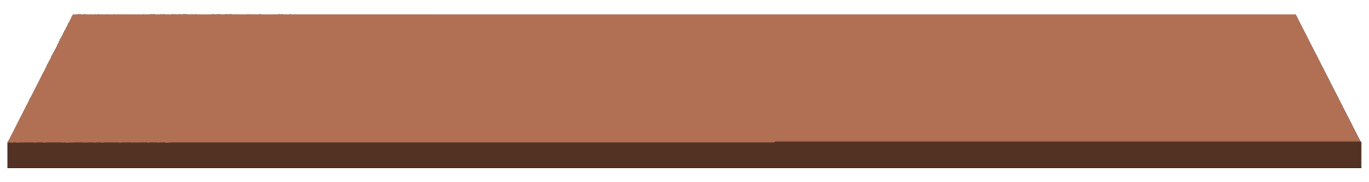
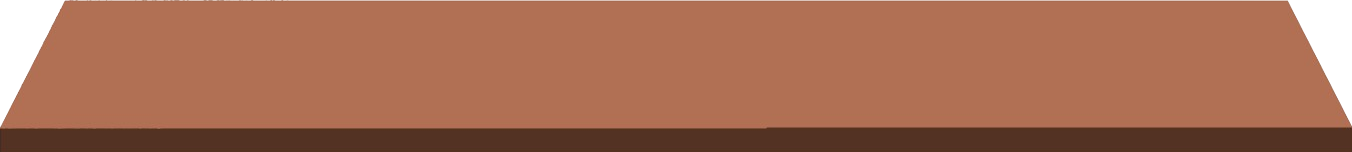
keresés + polcok javítása, képek

Changed region(s): [[0.0, 0.7368, 1.0, 1.0], [0.0, 0.0, 0.9941, 0.7368]]

diff --git a/categories.html b/categories.html
@@ -87,21 +87,21 @@
                                     </div>
                                     <div class="carousel-inner">
                                       <div class="carousel-item active">
-                                        <img src="img/slider0.jpg" class="d-block justify-content-center" alt="...">
+                                        <img src="img/slider-ad-4.png" class="d-block justify-content-center" alt="...">
                                         <div class="carousel-caption d-none d-md-block">
                                           <h5>First slide label</h5>
                                           <p>Some representative placeholder content for the first slide.</p>
                                         </div>
                                       </div>
                                       <div class="carousel-item">
-                                        <img src="img/slider0.jpg" class="d-block justify-content-center" alt="...">
+                                        <img src="img/slider-ad.png" class="d-block justify-content-center" alt="...">
                                         <div class="carousel-caption d-none d-md-block">
                                           <h5>Second slide label</h5>
                                           <p>Some representative placeholder content for the second slide.</p>
                                         </div>
                                       </div>
                                       <div class="carousel-item">
-                                        <img src="img/slider0.jpg" class="d-block" alt="...">
+                                        <img src="img/slider-ad-1.png" class="d-block" alt="...">
                                         <div class="carousel-caption d-none d-md-block">
                                           <h5>Third slide label</h5>
                                           <p>Some representative placeholder content for the third slide.</p>
@@ -180,11 +180,14 @@
                                     </div>     
                               </div> 
                         </div>
-                            <div class="row w-100">
-                                <div class=" col-lg-12 col-md-12 col-sm-11 shelf d-flex text-center justify-content-center w-100 d-sm-none d-md-none ">   
+
+                        <div class="container-fluid d-flex justify-content-center d-lg-block d-md-block d-sm-none d-xs-none">
+                            <div class="row w-100 m-0">
+                                <div class=" col-lg-12 col-md-12 col-sm-12 shelf mb-5 w-100">   
                                     <img src="img/shelf-2.png" alt="" width="100%"> 
                                 </div>  
                             </div> 
+                        </div>
                   </div> 
             </section>
 
@@ -196,15 +199,15 @@
                                   <h4 class="text-center my-4 main-title" id="Youth">Ifjúsági</h4>
                                   <div class="col-lg-3 col-md-6 col-sm-12 d-flex justify-content-center my-3">
                                     <a href="audiobook1.html">
-                                        <div class="card">
-                                                  <img src="img/teen-category.png" alt="Ifjúsági">
-                                                  <div class="card-body text-center">
-                                                        <h5>Szerző neve</h5>
-                                                        <h4>Lorem Ipsum Sit Amet</h4>
-                                                        <p class="card-text">Érdekes történet Vojcsek Tünde előadásában. Lorem ipsum dolor sit. </p>
-                                                  </div>
-                                            </div>
-                                        </a>
+                                    <div class="card">
+                                              <img src="img/teen-category.png" alt="Ifjúsági">
+                                              <div class="card-body text-center">
+                                                    <h5>Szerző neve</h5>
+                                                    <h4>Lorem Ipsum Sit Amet</h4>
+                                                    <p class="card-text">Érdekes történet Vojcsek Tünde előadásában. Lorem ipsum dolor sit. </p>
+                                              </div>
+                                        </div>
+                                    </a>
                                   </div>
                                   <div class="col-lg-3 col-md-6 col-sm-12 d-flex justify-content-center my-3">
                                     <a href="audiobook1.html">
@@ -245,11 +248,13 @@
                                   </div>     
                             </div> 
                       </div>
-                          <div class="row w-100">
-                              <div class=" col-lg-12 col-md-12 col-sm-12 shelf d-flex justify-content-center mb-5 w-100">   
-                                  <img src="img/shelf-2.png" alt="" width="100%"> 
-                              </div>  
-                          </div> 
+                      <div class="container-fluid d-flex justify-content-center d-lg-block d-md-block d-sm-none d-xs-none p-0 m-0">
+                        <div class="row w-100">
+                            <div class=" col-lg-12 col-md-12 col-sm-12 shelf mb-5 w-100 text-center">   
+                                <img src="img/shelf-2.png" alt="" width="100%"> 
+                            </div>  
+                        </div> 
+                    </div>
                 </div> 
             </div> 
           </section>
@@ -363,11 +368,13 @@
                               </div>     
                         </div> 
                   </div>
-                      <div class="row w-100">
-                          <div class=" col-lg-12 col-md-12 col-sm-12 d-flex justify-content-center shelf w-100">   
-                              <img src="img/shelf-2.png" alt="" width="100%"> 
-                          </div>  
-                      </div> 
+                  <div class="container-fluid d-flex justify-content-center d-lg-block d-md-block d-sm-none d-xs-none">
+                    <div class="row w-100">
+                        <div class=" col-lg-12 col-md-12 col-sm-12 shelf mb-5 w-100 text-center">   
+                            <img src="img/shelf-2.png" alt="" width="100%"> 
+                        </div>  
+                    </div> 
+                </div>
                     </div> 
       </section>
 
@@ -426,11 +433,13 @@
                           </div>     
                     </div> 
               </div>
-                  <div class="row w-100">
-                      <div class=" col-lg-12 col-md-12 col-sm-12 shelf d-flex justify-content-center w-100">   
-                          <img src="img/shelf-2.png" alt="" width="100%"> 
-                      </div>  
-                  </div> 
+              <div class="container-fluid d-flex justify-content-center d-lg-block d-md-block d-sm-none d-xs-none">
+                <div class="row w-100">
+                    <div class=" col-lg-12 col-md-12 col-sm-12 shelf mb-5 w-100 text-center">   
+                        <img src="img/shelf-2.png" alt="" width="100%"> 
+                    </div>  
+                </div> 
+            </div>
                 </div> 
   </section>
   <section>
@@ -488,11 +497,13 @@
                       </div>     
                 </div> 
           </div>
-              <div class="row w-100">
-                  <div class=" col-lg-12 col-md-12 col-sm-12 shelf d-flex justify-content-center mb-5 w-100">   
-                      <img src="img/shelf-2.png" alt="" width="100%" > 
-                  </div>  
-              </div> 
+          <div class="container-fluid d-flex justify-content-center d-lg-block d-md-block d-sm-none d-xs-none">
+            <div class="row w-100">
+                <div class=" col-lg-12 col-md-12 col-sm-12 shelf mb-5 w-100 text-center">   
+                    <img src="img/shelf-2.png" alt="" width="100%"> 
+                </div>  
+            </div> 
+        </div>
     </div> 
 </section>
       </main>

diff --git a/css/style.css b/css/style.css
@@ -13,7 +13,9 @@ body{
 }
 
 .categories-more {
-    background-color: #eee2d6ad;
+   z-index: 2;
+   background: rgb(249,246,239);
+   background: linear-gradient(180deg, rgba(249,246,239,1) 1%, rgba(236,224,212,1) 24%, rgba(228, 217, 206, 0.849) 51%, rgba(239,227,215,1) 81%, rgba(249,246,239,1) 100%);
 }
 
 .cartItems td, .cartItems th {
@@ -21,7 +23,7 @@ body{
     border-color: #ebddcf;
 }
 
-a.nav-link, .nav-icons a, body,.btn-light, .addToCart, .cartItems td, .cartItems th,.Top-Audio td,.Top-Audio th{
+a.nav-link, .nav-icons a, body,.btn-light, .addToCart, .cartItems td, .cartItems th,.Top-Audio td,.Top-Audio th,#searchResults li a,#mobileSearchResults li a{
     color:  #91553c !important;
 }
 
@@ -32,7 +34,25 @@ header, .choose-us h4{
 header .navbar , .choose-us h4, .comment {
     border-bottom: 1px solid #a57a568f;
 }
+#mobileSearchResults{
+    list-style-type: none;
+    padding: 0;
+     margin: 0;
+     position: absolute;
+}
 
+#searchResults{
+    list-style-type: none;
+    padding: 0;
+     margin: 0;
+     position:absolute;
+    width: 22%;
+    }
+
+#searchResults li a, #mobileSearchResults li a {
+    padding: 10px;
+    display: block;
+  }
 
 .publisher-imgs div {
     border-left: 1px solid #a57a568f;
@@ -44,7 +64,6 @@ header .navbar , .choose-us h4, .comment {
 }
 
 .nav-link{
-    text-decoration: none;
     font-weight: 500;
     font-style: normal;
     letter-spacing: 1px;
@@ -65,7 +84,7 @@ header .navbar , .choose-us h4, .comment {
 .categories h3{
     margin: 50px;
 }
-.navbar-toggler,.addToCart {
+.navbar-toggler,.addToCart,#searchResults li a,#mobileSearchResults li a {
     background-color: #fff;}
 
 .addToCart {
@@ -166,9 +185,12 @@ color: #ffffff!important;
     border: none !important
 }
 
-  .form-control, .card, .navbar-toggler{
+  .form-control, .card, .navbar-toggler,#searchResults li a,#mobileSearchResults li a{
     border: 1px solid #aa634485;
     
+  }
+  .card{
+    z-index: 3 !important;
   }
 
 .choose-us h3{
@@ -212,6 +234,7 @@ footer {
 
 .cards img, .card-body h5 {
     color: #91553c!important;
+
 }
 
 .cards img:hover {
@@ -267,12 +290,13 @@ form button, span.carousel-control-prev-icon, span.carousel-control-next-icon {
     width: 100%;
     object-fit: cover;
     object-position: center;
-    opacity: 0.6;
+    opacity: 0.4;
 }
 
 .carousel-caption{
-    color: #533223;
+    color: #9b3c14;
     font-size: 30px;
+    -webkit-text-stroke: 1px #000000;
 }
 .categories-more .card{
     width: 15rem;
@@ -284,12 +308,25 @@ form button, span.carousel-control-prev-icon, span.carousel-control-next-icon {
 span.carousel-control-prev-icon, span.carousel-control-next-icon{
     border-radius: 10px;
 }
-a{
+a, .nav-link, #searchResults li a,#mobileSearchResults li a{
     text-decoration: none;
 }
 
 .shelf{
     padding: 0px !important;
+    width: 100%;
+    height: 100px;
+    z-index: 2;
+    position: relative;
+    bottom: 80px;
+    opacity: 0.9;
+    margin: 0px auto;
+}
+
+.shelf img{
+    box-shadow: -1px 20px 14px -15px  rgba(0, 0, 0, 0.75);
+    height: 100%;
+  
 }
 
 .audiobook button {
@@ -358,11 +395,5 @@ a{
     }
     .logo, .MainSearch,.MainSearchIcon{
         display: none;
-    }
-
-    @media only screen and (max-width: 768px) {
-        .shelf{
-            display: none !important;
-        }
     }
 }

diff --git a/index.html b/index.html
@@ -43,34 +43,26 @@
                             </li>
                         </ul>
               
-                        <div class="col-lg-2 d-lg-block d-sm-none d-md-none d-xs-none MainSearch">
+                        <div class="col-lg-2  MainSearch">
+                           
                             <div class="input-group">
-                                <input type="text" class="form-control" placeholder="Keresés..." aria-label="Keresés..." aria-describedby="SearchBar">
+                                <input type="text" class="form-control" placeholder="Keresés..." aria-label="Keresés..."  id="searchInput" aria-describedby="SearchBar">
+                                
                                 <span class="input-group-text" id="SearchBar"><i class="bi bi-search"></i></span>
-                            </div>
+                                
+                            </div>     
+                            <div class="row">
+                                <div class="col-lg-12"><ul id="searchResults"></ul> </div> </div>
                         </div>
-                        <div class="col-sm-12 col-md-12 col-lg-1 d-lg-block d-sm-none d-md-none d-xs-none MainSearchIcon">
+                        <div class="col-sm-12 col-md-12 col-lg-1 MainSearchIcon">
                             <span class="nav-icons d-flex justify-content-center">
                                 <a href="cart.html"><i class="bi bi-cart3 mx-2"></i></a>
                                 <i class="bi bi-bookmark-star mx-2"></i>
                             </span>
                         </div>
-                      
-                    </div>
-                    <div class="MobileSearch d-lg-none d-sm-block d-md-block d-xs-block my-3">
-                    <div class="col-sm-12 col-md-12 ">
-                        <div class="input-group">
-                            <input type="text" class="form-control" placeholder="Keresés..." aria-label="Keresés..." aria-describedby="SearchBar">
-                            <span class="input-group-text" id="SearchBar"><i class="bi bi-search"></i></span>
-                        </div>
-                    </div>
-                    <div class="col-sm-12 col-md-12 mobileSearch">
-                        <span class="nav-icons d-flex justify-content-center pt-2">
-                            <a href="cart.html"><i class="bi bi-cart3 mx-2"></i></a>
-                            <i class="bi bi-bookmark-star mx-2"></i>
-                        </span>
-                    </div>
                 </div>
+
+               
                 </div>
             </div>
         </nav>

diff --git a/js/script.js b/js/script.js
@@ -88,6 +88,47 @@ if (hasStorageSupport()) {
   })
 })()
 
-var SearchBar = document.getElementById("SearchBar");
+const searchInput = document.getElementById('searchInput');
+const searchResults = document.getElementById('searchResults');
+const mobileSearchInput = document.getElementById('mobileSearchInput');
+const mobileSearchResults = document.getElementById('mobileSearchResults');
 
-var audiosTitle=["Fantasy-1","Fantasy-2","Fantasy-3","Fantasy-4","Gyerek-1","Gyerek-2","Gyerek-3","Gyerek-4","Ifjúsági-1","Ifjúsági-2","Ifjúsági-3","Ifjúsági-4","Szépirodalmi-1","Szépirodalmi-2","Szépirodalmi-3","Szépirodalmi-4","Ismeretterjesztő-1","Ismeretterjesztő-2","Ismeretterjesztő-3","Ismeretterjesztő-4"];
+const sections = [
+    { id: 'Fantasy-1', title: 'Fantasy-1 cím', page: 'audiobook1.html' },
+    { id: 'Fantasy-2', title: 'Fantasy-2 cím', page: 'audiobook1.html' },
+    { id: 'Gyerek-1', title: 'Gyerek-1 cím', page: 'audiobook1.html' },
+    { id: 'Gyerek-2', title: 'Gyerek-2 cím', page: 'audiobook1.html' },
+    { id: 'Ifjúsági-1', title: 'Ifjúsági-1 cím', page: 'audiobook1.html' },
+    { id: 'Ifjúsági-2', title: 'Ifjúsági-2 cím', page: 'audiobook1.html' },
+    { id: 'Szépirodalmi-1', title: 'Szépirodalmi-1 cím', page: 'audiobook1.html' },
+    { id: 'Szépirodalmi-2', title: 'Szépirodalmi-2 cím', page: 'audiobook1.html'},
+    { id: 'Ismeretterjesztő-1', title: 'Ismeretterjesztő-1 cím', page: 'audiobook1.html'},
+    { id: 'Ismeretterjesztő-2', title: 'Ismeretterjesztő-2 cím', page: 'audiobook1.html'}];
+
+
+function kisBetus() {
+    const searchText = searchInput.value.toLowerCase();
+    searchResults.innerHTML = '';
+
+    if (searchText === '') {
+        return;
+    } 
+
+    for (let i = 0; i < sections.length; i++) {
+        const section = sections[i];
+        const titleText = section.title.toLowerCase();
+
+        // Ha a címsor tartalmazza a keresési szöveget
+        if (titleText.includes(searchText)) {
+            const li = document.createElement('li');
+            const link = document.createElement('a');
+            link.innerHTML = section.title;
+            link.href = section.page + '#' + section.id;  //h4 id
+            li.appendChild(link);
+            searchResults.appendChild(li);
+
+        }
+    }
+}
+searchInput.addEventListener('input', kisBetus);
+
